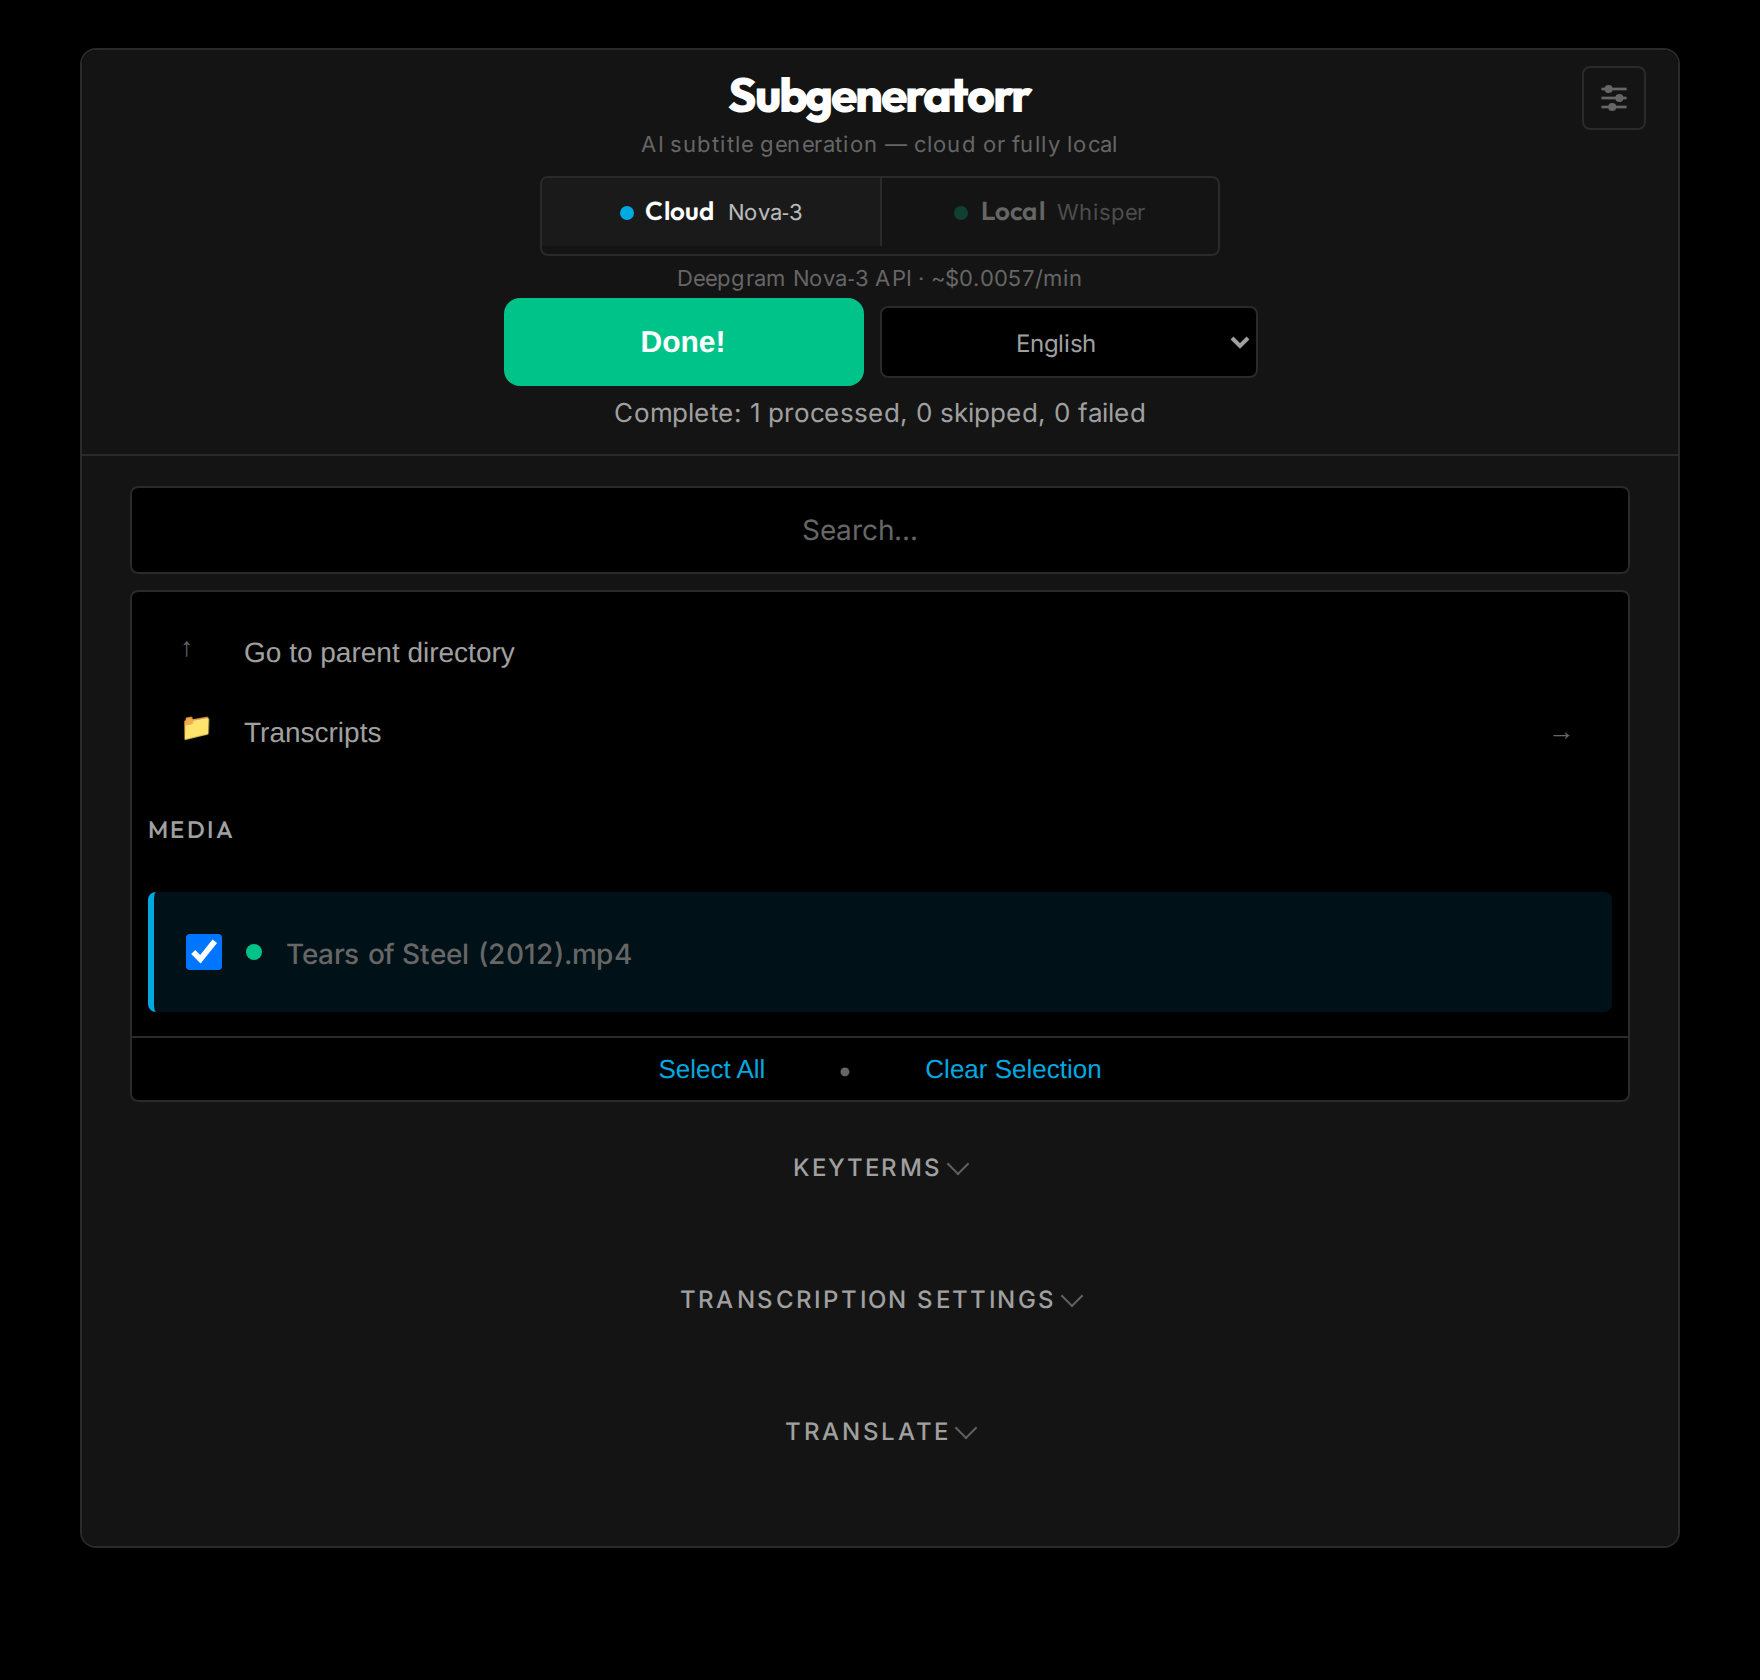
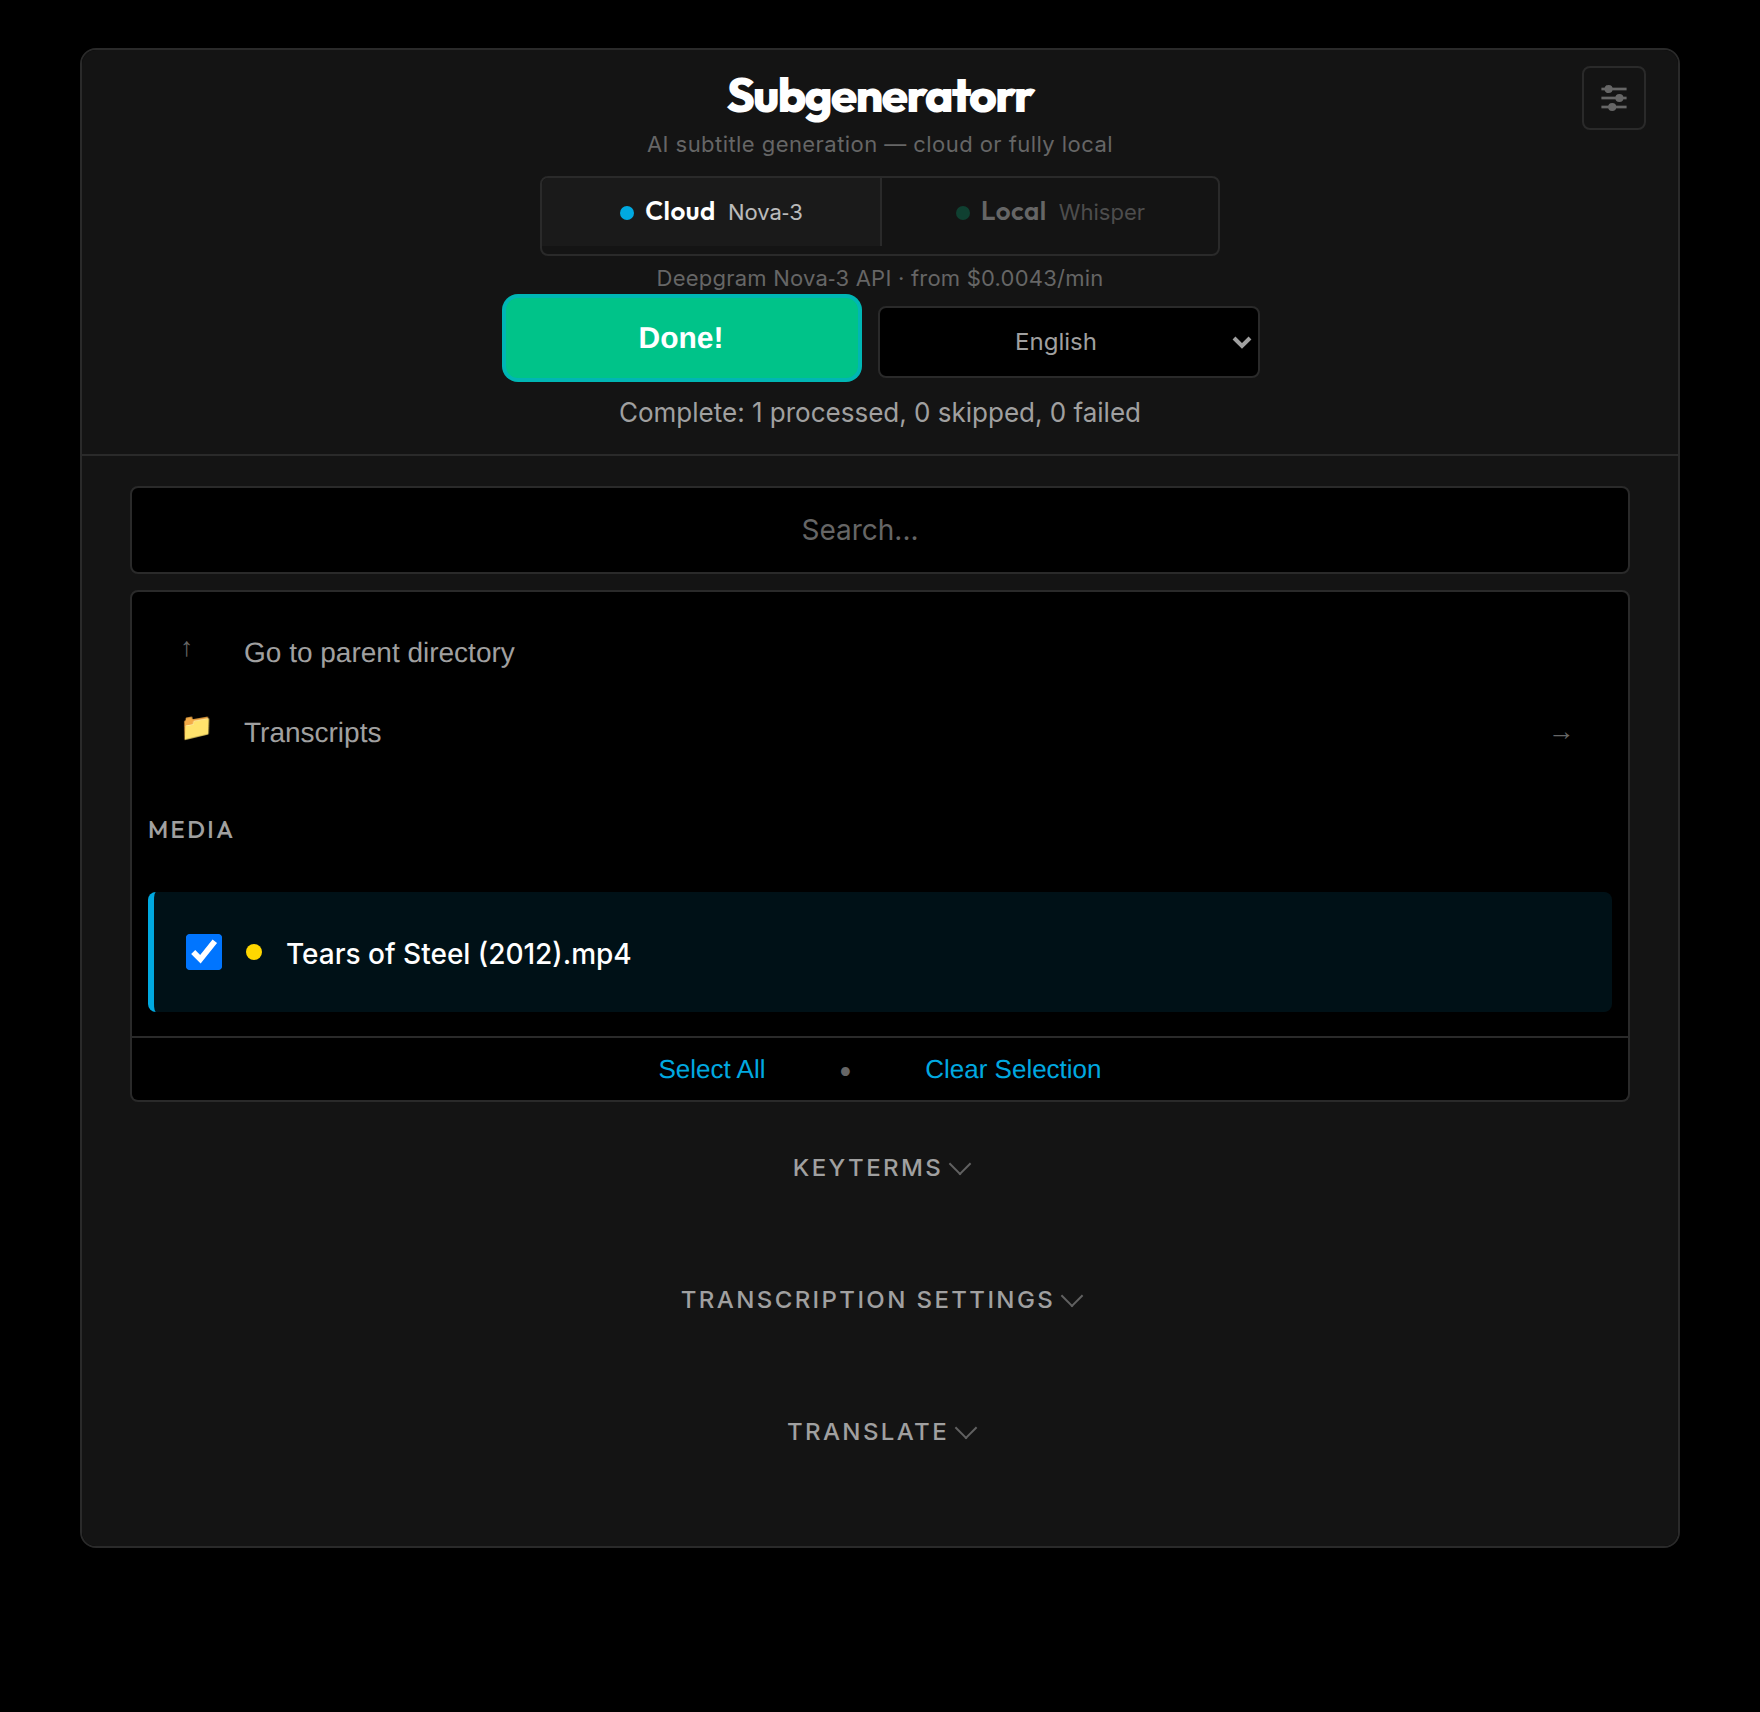
docs: retake README screenshots and demo GIF for the v3.3 UI, add Customize languages shot

diff --git a/README.md b/README.md
@@ -12,7 +12,7 @@
 [![GHCR](https://img.shields.io/badge/ghcr.io-subgeneratorr--web-blue?logo=github)](https://github.com/tylerbcrawford/subgeneratorr/pkgs/container/subgeneratorr-web)
 
 <p align="center">
-  <img src="docs/demo/preview.gif" width="820" alt="Subgeneratorr workflow: browse the library, scan for missing subtitles, generate keyterms, transcribe with Deepgram Nova-3, and translate into more languages">
+  <img src="docs/demo/preview.gif" width="820" alt="Subgeneratorr workflow: browse the library, scan for missing subtitles, generate keyterms, transcribe with Deepgram Nova-3, translate with a local Ollama model, and customize the language lists">
 </p>
 
 Subgeneratorr generates language-tagged SRT subtitles for the media [Bazarr](https://www.bazarr.media/) can't find — obscure shows, older episodes, anything without community subs. It runs as a Docker container with a Web UI and CLI, uses **keyterm prompting** so proper nouns come out right, and can translate every subtitle it makes into 58 more languages with the original timing preserved.
@@ -69,7 +69,7 @@ Every AI step after transcription is provider-agnostic too: keyterm generation a
 
 <p align="center">
   <img src="docs/screenshots/keyterm-generation.png" width="780" alt="AI keyterm generation populated with character names and locations, with cost and token readout"><br>
-  <sub>One-click AI keyterms — here it read the filename and pulled 22 terms from <em>Tears of Steel</em> on its own, for $0.004.</sub>
+  <sub>One-click AI keyterms — here GPT-6 Luna read the filename and returned 21 names, places, and terms for <em>Tears of Steel</em> on its own, for well under a cent.</sub>
 </p>
 
 <p align="center">
@@ -83,8 +83,13 @@ Every AI step after transcription is provider-agnostic too: keyterm generation a
 </p>
 
 <p align="center">
-  <img src="docs/screenshots/translate-panel.png" width="780" alt="Translate panel with target language chips (Spanish, French, Japanese, Punjabi, Georgian) and a live cost estimate"><br>
-  <sub>Turn one subtitle into many — pick target languages (98 available) and an LLM provider; timing is preserved.</sub>
+  <img src="docs/screenshots/translate-panel.png" width="780" alt="Translate panel set to a local Ollama model picked from the installed models, with Spanish, French, German, Italian, and Portuguese chips, a note that Llama 3 officially supports 7 of the 98 targets, and a free cost line"><br>
+  <sub>Turn one subtitle into many — pick target languages (98 available) and an LLM provider; timing is preserved. With Ollama, pick from the models installed on your server; languages the model doesn't support are greyed out.</sub>
+</p>
+
+<p align="center">
+  <img src="docs/screenshots/customize-languages.png" width="780" alt="Customize languages dialog with Transcription and Translation tabs, search, All/None, a 128 of 133 languages shown count, and Cloud/Local badges on each language"><br>
+  <sub>Trim the dropdowns to the languages you actually use — saved on the server, with Cloud / Local badges showing which engine supports each one.</sub>
 </p>
 
 <sub>Demo library uses Creative Commons / public-domain titles (Blender open movies, Pioneer One, Night of the Living Dead) so nothing copyrighted appears in the shots.</sub>

diff --git a/CHANGELOG.md b/CHANGELOG.md
@@ -18,6 +18,9 @@ and this project adheres to [Semantic Versioning](https://semver.org/spec/v2.0.0
   `/api/ollama/models`, Ollama for `/api/keyterms/generate`, and the `providers` and
   `llm_models` fields of `/api/config` and `/api/capabilities`.
 - Language counts updated throughout (99 Whisper languages, 98 translation targets).
+- README screenshots and the demo GIF retaken on the v3.3 UI (current pricing and
+  models, Ollama model picker in the Translate panel), plus a new screenshot of the
+  Customize languages panel.
 
 ## [3.3.0] - 2026-10-18
 
